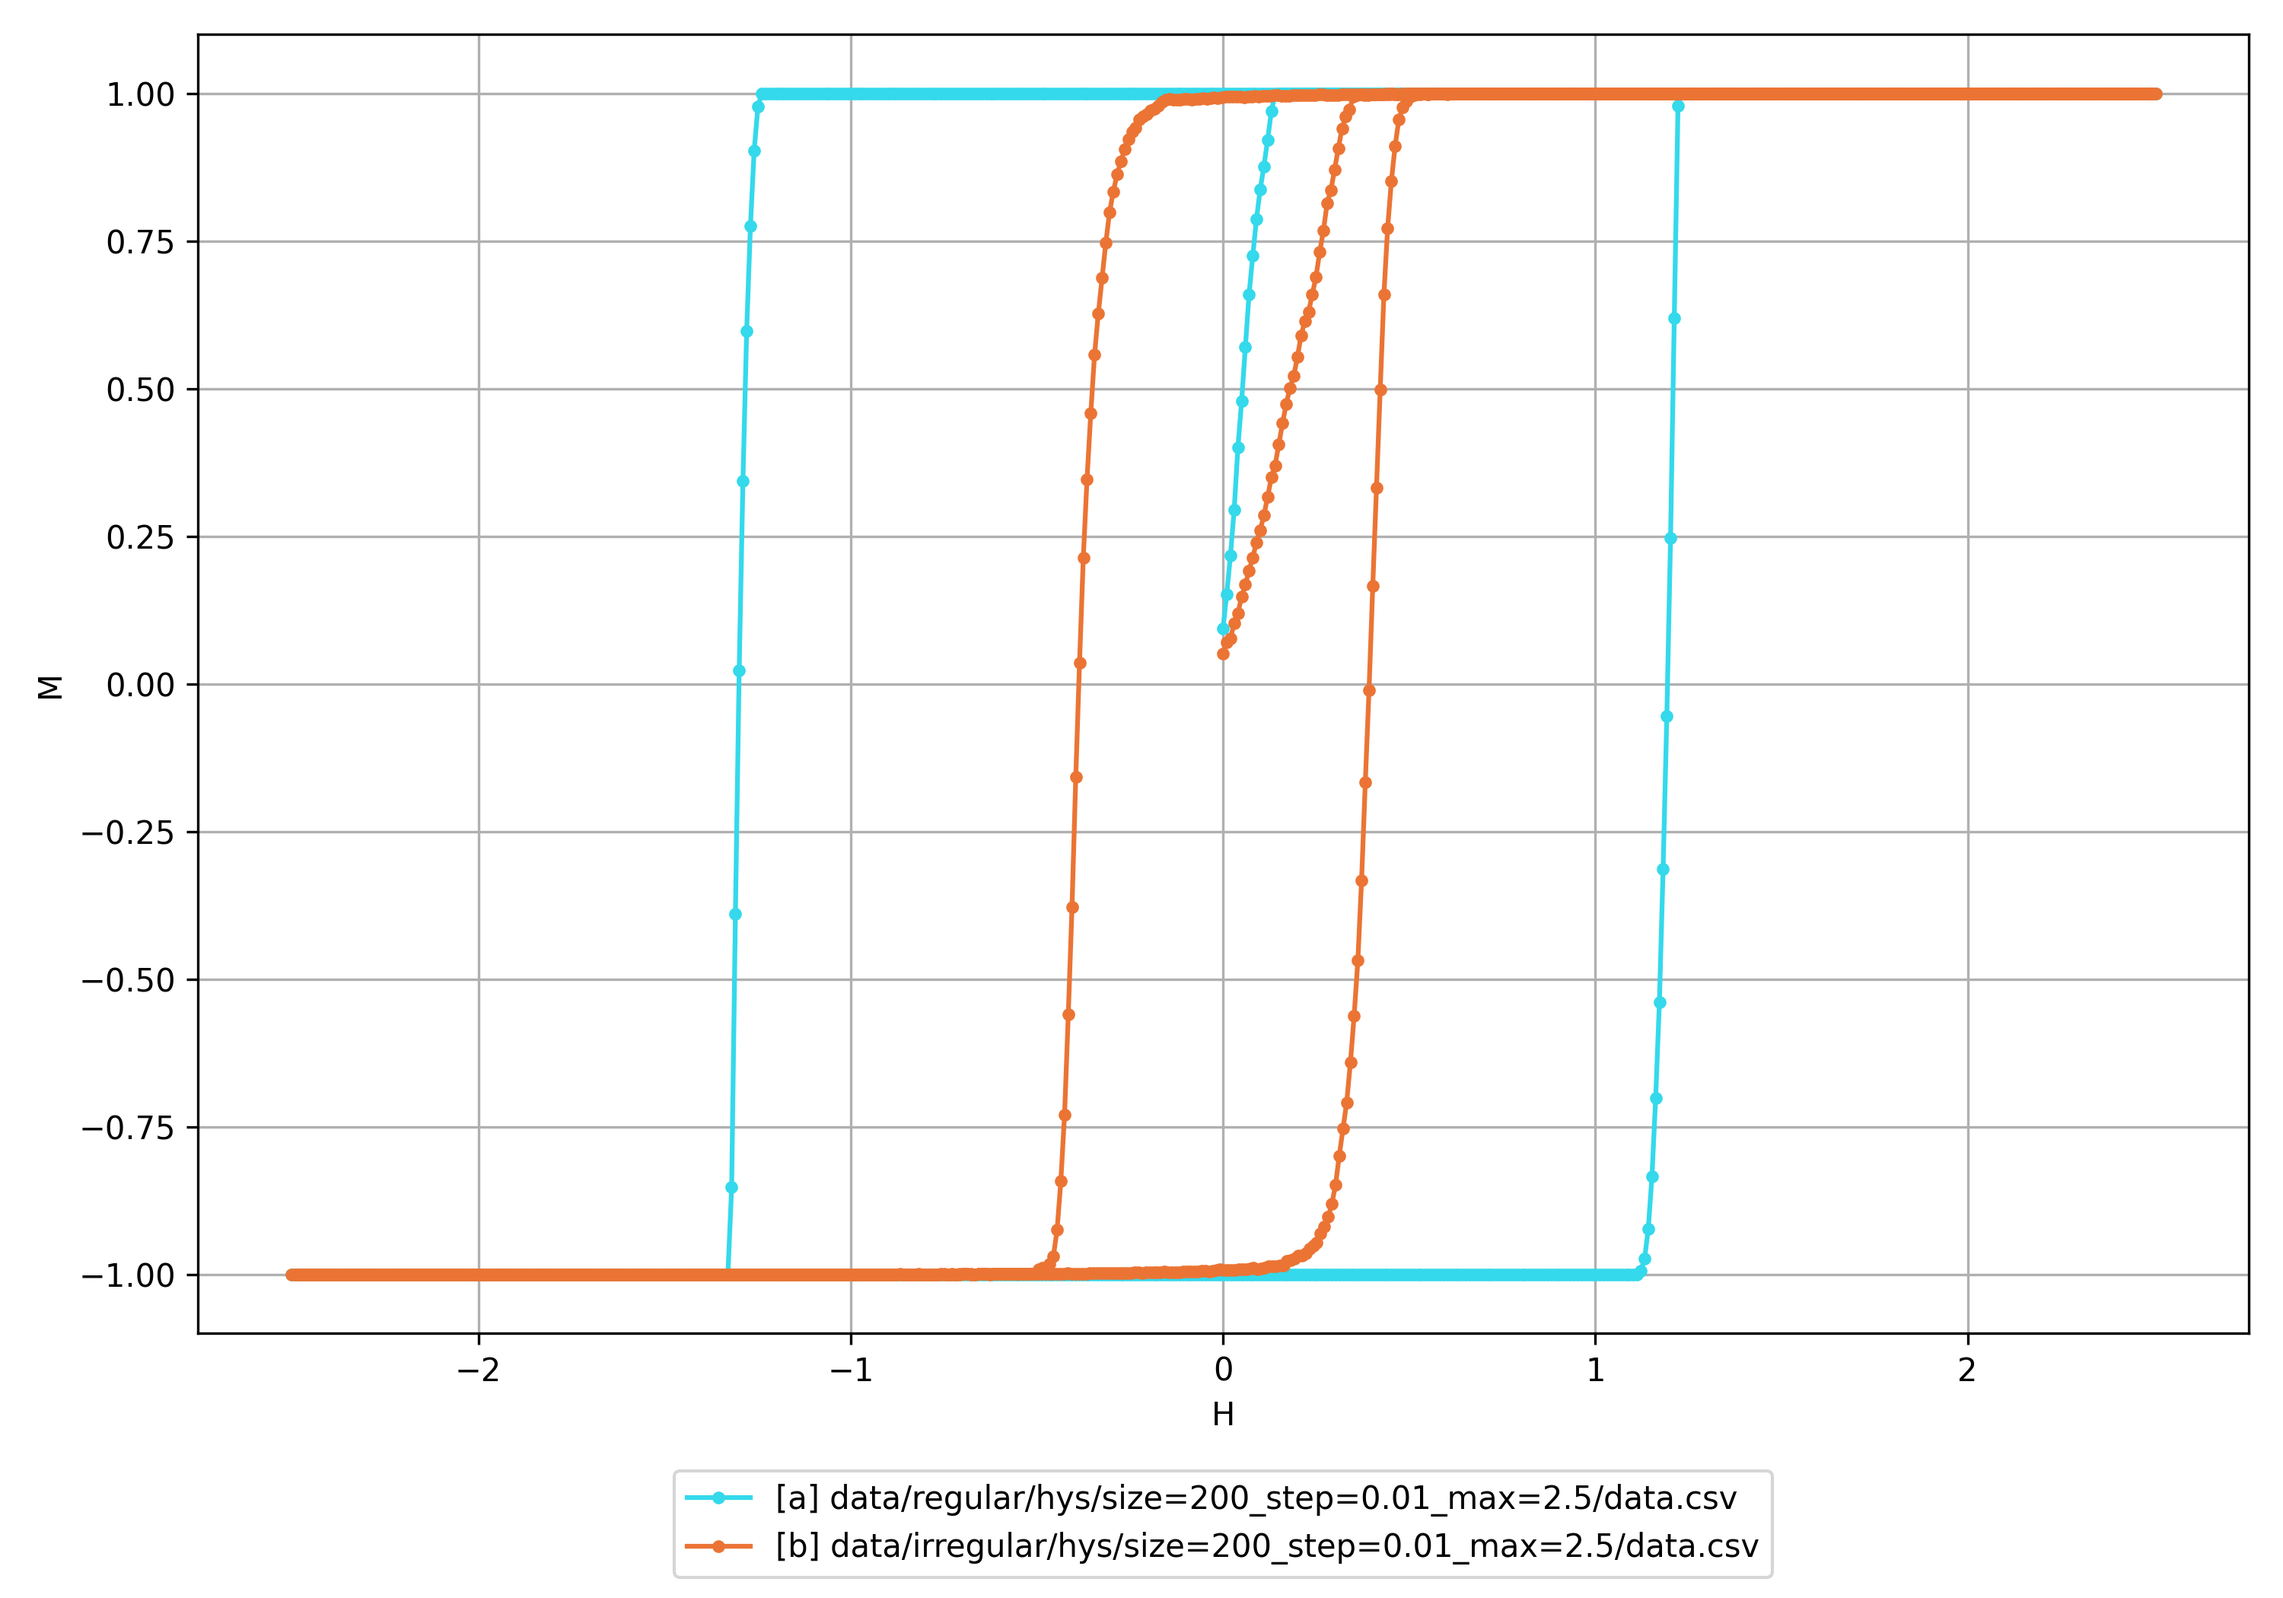
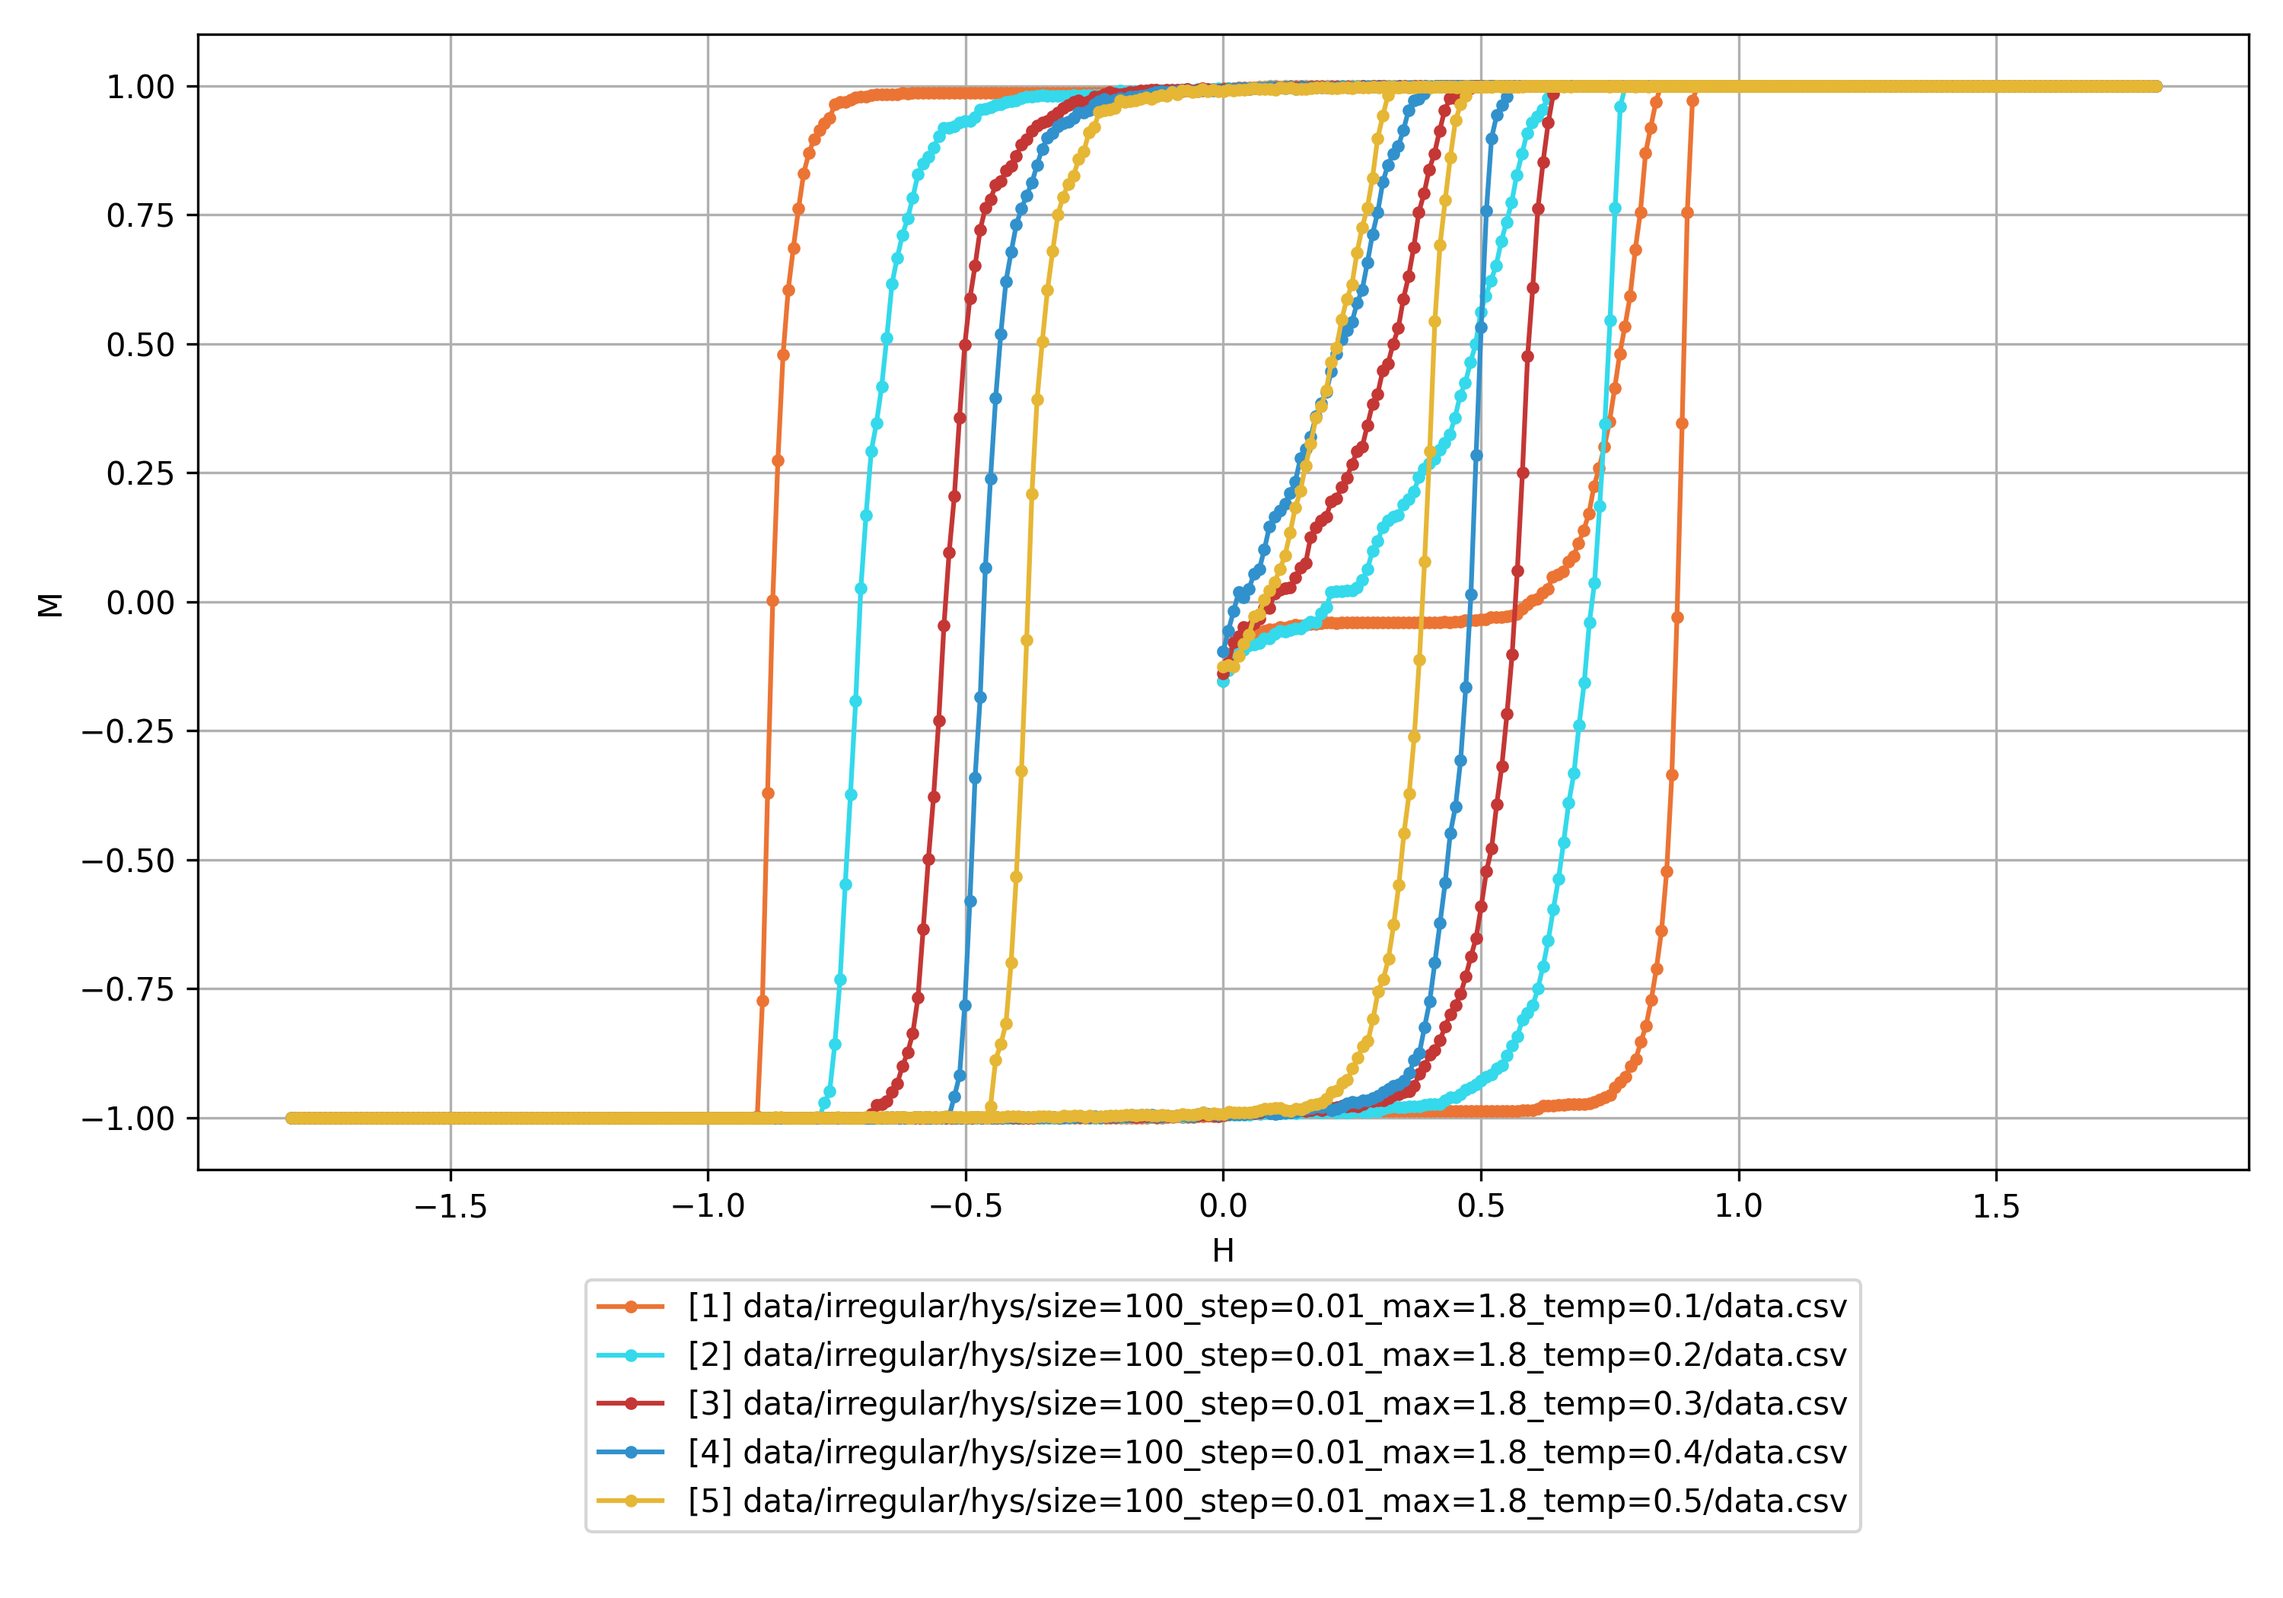
add hysteresis threading;

diff --git a/src/main.rs b/src/main.rs
@@ -15,26 +15,38 @@ use simulation::{Simulation, SimulationConfig};
 
 use crate::cli::{ArgError, ArgsPhase};
 
-fn prepare_data_path(
+// add extra params, split into two
+
+fn make_data_path_phase(network_type: NetworkType, size: usize, step: f64, max: f64) -> String {
+    format!(
+        "data/{}/phase/size={}_step={}_max={}",
+        network_type.to_string(),
+        size,
+        step,
+        max
+    )
+}
+
+fn make_data_path_hys(
     network_type: NetworkType,
-    simulation_type: &String,
     size: usize,
     step: f64,
     max: f64,
-) -> Result<String, Box<dyn Error>> {
-    let data_dir = format!(
-        "data/{}/{}/size={}_step={}_max={}",
+    temp: f64,
+) -> String {
+    format!(
+        "data/{}/hys/size={}_step={}_max={}_temp={}",
         network_type.to_string(),
-        simulation_type,
         size,
         step,
         max,
-    );
+        temp
+    )
+}
 
+fn prepare_data_path(data_dir: &String) -> Result<String, Box<dyn Error>> {
     let data_path_str = format!("{}/data.csv", data_dir);
-
     fs::create_dir_all(&data_dir)?;
-
     Ok(data_path_str)
 }
 
@@ -44,7 +56,6 @@ fn run_phase(
     network_type: NetworkType,
 ) -> Result<String, Box<dyn Error>> {
     let mut rand = rand_chacha::ChaCha20Rng::seed_from_u64(rand_seed);
-    let simulation_type: String = "phase".to_string();
 
     let mut s = Simulation::new(
         args.size,
@@ -60,11 +71,12 @@ fn run_phase(
     );
 
     let data_path_str = prepare_data_path(
-        network_type,
-        &simulation_type,
-        args.size,
-        args.t_step,
-        args.t_max,
+        &make_data_path_phase(
+            network_type,
+            args.size,
+            args.t_step,
+            args.t_max
+        )
     )?;
     let data_path = Path::new(&data_path_str);
 
@@ -86,14 +98,14 @@ fn run_hysteresis(
     rand_seed: u64,
     args: &ArgsHysteresis,
     network_type: NetworkType,
+    temp: f64
 ) -> Result<String, Box<dyn Error>> {
     let mut rand = rand_chacha::ChaCha20Rng::seed_from_u64(rand_seed);
-    let simulation_type: String = "hys".to_string();
 
     let mut s = Simulation::new(
         args.size,
         SimulationConfig {
-            temp: args.temp,
+            temp,
             h: 0f64,
             j: 1f64,
             kb: 1f64,
@@ -104,18 +116,20 @@ fn run_hysteresis(
     );
 
     let data_path_str = prepare_data_path(
-        network_type,
-        &simulation_type,
-        args.size,
-        args.h_step,
-        args.h_max,
+        &make_data_path_hys(
+            network_type,
+            args.size,
+            args.h_step,
+            args.h_max,
+            temp
+        )
     )?;
     let data_path = Path::new(&data_path_str);
 
     match s.simulate_hysteresis(
         &data_path,
         simulation::HysteresisConfig {
-            h_min: args.h_min,
+            h_min: -args.h_max,
             h_max: args.h_max,
             h_step: args.h_step,
         },
@@ -135,15 +149,20 @@ fn main() -> Result<(), Box<dyn Error>> {
             let mut children = vec![];
             for network_type in vec![NetworkType::Regular, NetworkType::Irregular] {
                 let args = cli::ArgsHysteresis::parse_from(env::args().skip(1));
+                let temps = args.temps;
+                
+                for temp in temps {
+                    let args = cli::ArgsHysteresis::parse_from(env::args().skip(1));
 
-                children.push(thread::spawn(move || {
-                    match run_hysteresis(rand_seed, &args, network_type) {
-                        Err(e) => eprintln!("{}", e),
-                        Ok(p) => {
-                            print!("{} ", p)
+                    children.push(thread::spawn(move || {
+                        match run_hysteresis(rand_seed, &args, network_type, temp) {
+                            Err(e) => eprintln!("{}", e),
+                            Ok(p) => {
+                                print!("{} ", p)
+                            }
                         }
-                    }
-                }));
+                    }));
+                }
             }
 
             for child in children {

diff --git a/cmp/cmp_hys.py b/cmp/cmp_hys.py
@@ -16,10 +16,15 @@ def plot(path, ax, colour, name, label):
   ax.set_ylabel(df.columns[1])
   ax.plot(hs, ms, color=colour, marker='.', label=f'''[{name}] {label}''')
 
-def main(path_a, path_b):
+def main(paths):
   colours = {
     'orange': (235/255, 116/255, 52/255),
     'cyan': (52/255, 217/255, 235/255),
+    'red': (196/255, 55/255, 53/255),
+    'blue': (49/255, 145/255, 204/255),
+    'yellow': (230/255, 182/255, 53/255),
+    'tl': (53/255, 230/255, 109/255),
+    'purple': (191/255, 53/255, 230/255),
     'black': (0.2, 0.2, 0.2)
   }
 
@@ -27,10 +32,12 @@ def main(path_a, path_b):
 
   ax.grid(which='both')
 
-  plot(path=path_a, ax=ax, colour=colours['cyan'], name='a', label=path_a)
-  plot(path=path_b, ax=ax, colour=colours['orange'], name='b', label=path_b)
+  colour_keys = list(colours.keys())
 
-  ax.legend(loc='lower center', bbox_to_anchor=(0.5, -0.2))
+  for path, i in zip(paths, range(1, len(paths) + 1)):
+    plot(path=path, ax=ax, colour=colours[colour_keys[(i - 1) % len(colour_keys)]], name=i, label=path)
+
+  ax.legend(loc='lower center', bbox_to_anchor=(0.5, -len(paths)/15))
   fig.tight_layout()
 
   plt.savefig('plot_hys.png', dpi=300)
@@ -40,12 +47,12 @@ def print_usage():
   print(f'usage: ./cmp_hys.py path_a path_b')
 
 def are_arguments_valid() -> [bool, str]:
-  if len(sys.argv) <= 2: 
-    return [False, 'Too few arguments; expected 2']
+  if len(sys.argv) <= 1: 
+    return [False, 'Too few arguments; expected at least 1']
   
-  path_a, path_b = sys.argv[1:]
+  paths = sys.argv[1:]
 
-  for path_str in [path_a, path_b]:
+  for path_str in paths:
     path = pathlib.Path(path_str)
 
     if not path.exists():
@@ -59,5 +66,5 @@ if __name__ == '__main__':
     print_usage()
     exit(1)
 
-  path_a, path_b = sys.argv[1:]
-  main(path_a=path_a, path_b=path_b)
+  paths = sys.argv[1:]
+  main(paths)

diff --git a/src/cli.rs b/src/cli.rs
@@ -3,7 +3,6 @@ use std::{
     fmt::{Display, Formatter, Result},
 };
 
-use crate::network::NetworkType;
 use clap::Parser;
 use serde::Serialize;
 
@@ -12,14 +11,11 @@ pub struct ArgsHysteresis {
     #[clap(short, long, default_value_t = 100)]
     pub size: usize,
 
-    #[clap(short, long)]
-    pub temp: f64,
+    #[clap(short, long, multiple_values=true)]
+    pub temps: Vec<f64>,
 
     #[clap(short, long, default_value_t = 50)]
     pub eq_steps: usize,
-
-    #[clap(short, long, default_value_t=-2.5f64)]
-    pub h_min: f64,
 
     #[clap(short, long, default_value_t = 2.5f64)]
     pub h_max: f64,

diff --git a/src/network.rs b/src/network.rs
@@ -129,7 +129,7 @@ impl Network {
     }
 
     pub fn new(size: usize, network_type: &NetworkType, rand: &mut ChaCha20Rng) -> Self {
-        let m = Network {
+        let mut m = Network {
             size,
             spins: Network::make_spins(size, rand),
             lattice: match network_type {
